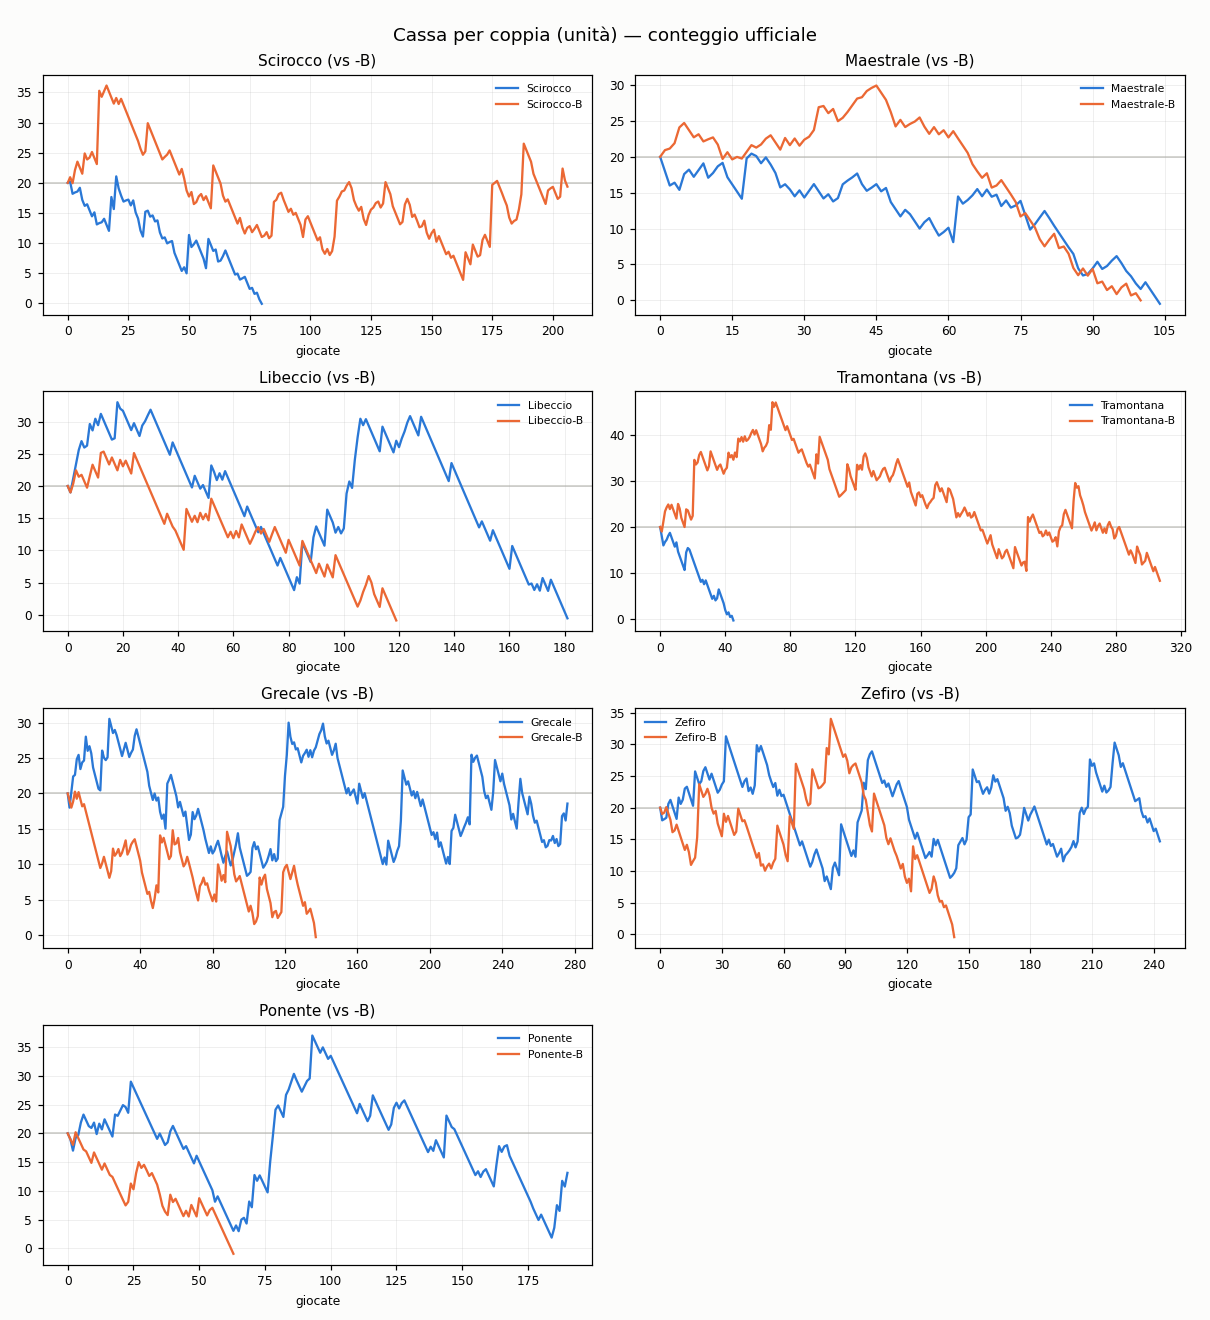
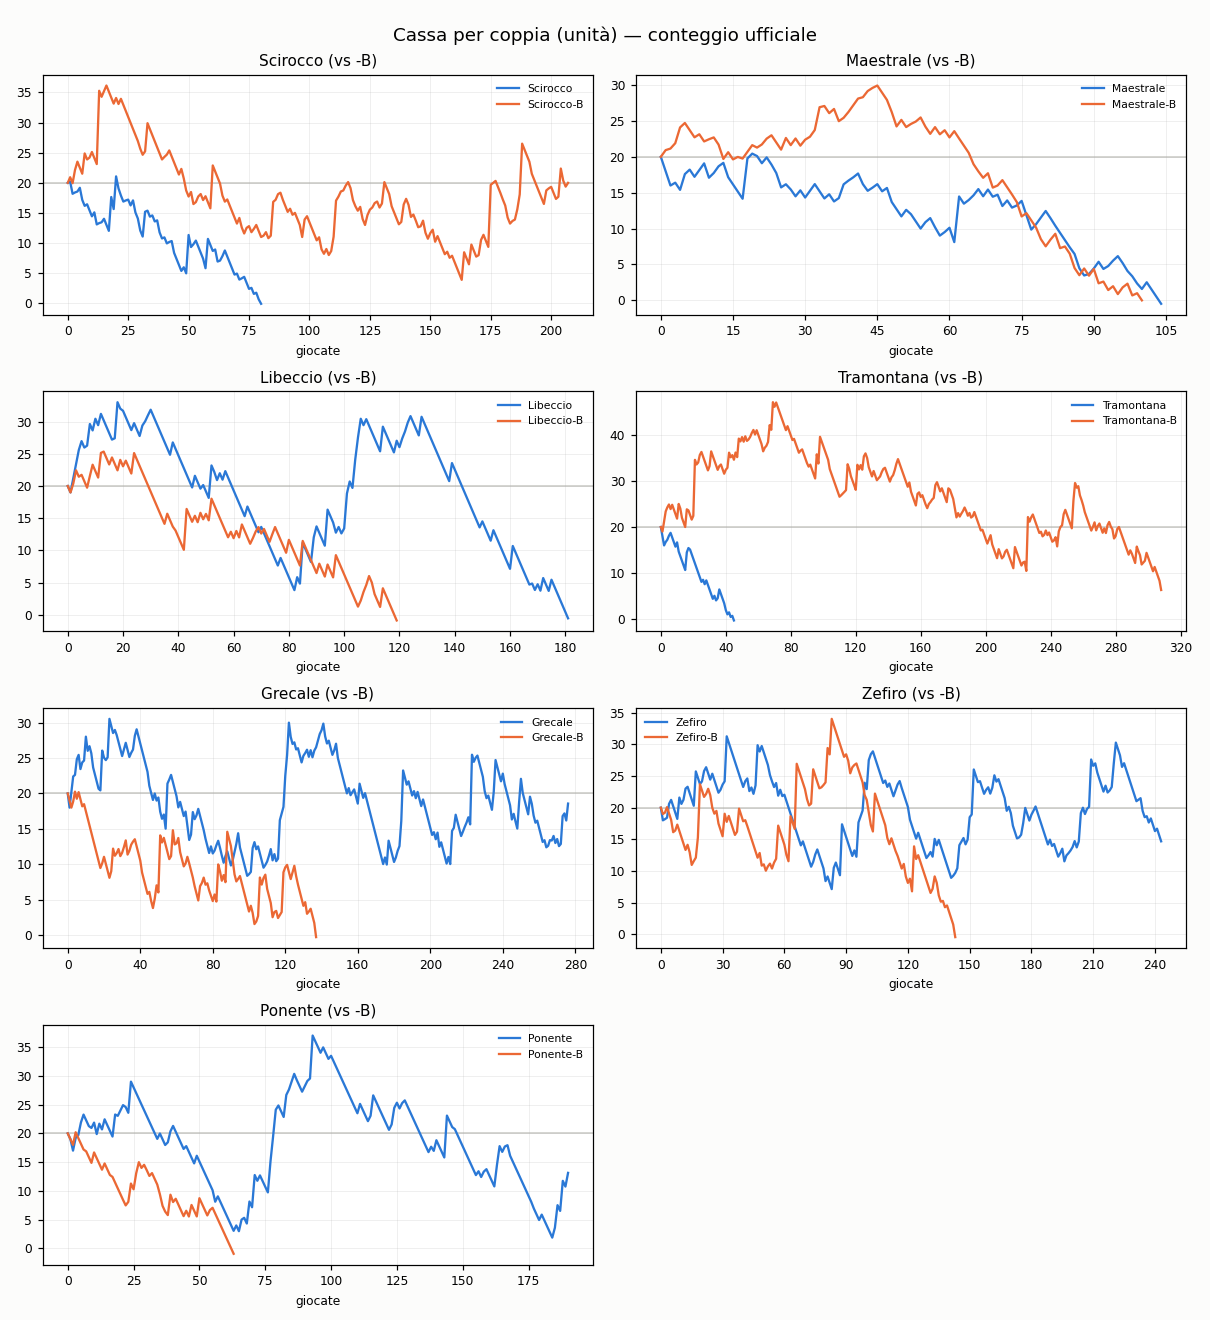
aggiornamento 2026-07-25 13:26 UTC

diff --git a/README.md b/README.md
@@ -37,9 +37,9 @@ scala in unità). Non indichiamo quale.
 
 ## Grafici
 
-![Coppie: dati completi vs ridotti](https://raw.githubusercontent.com/Kitem19/ippica-track-record/main/charts/equity_pairs.png?v=c039201a)
+![Coppie: dati completi vs ridotti](https://raw.githubusercontent.com/Kitem19/ippica-track-record/main/charts/equity_pairs.png?v=8fba55e0)
 
-![Delta per coppia](https://raw.githubusercontent.com/Kitem19/ippica-track-record/main/charts/coppie_delta.png?v=48b43798)
+![Delta per coppia](https://raw.githubusercontent.com/Kitem19/ippica-track-record/main/charts/coppie_delta.png?v=caf1e14f)
 
 ### Come leggere i grafici
 
@@ -56,10 +56,10 @@ scala in unità). Non indichiamo quale.
 
 _Poche giornate: numeri ancora rumorosi, si conclude a fine fase (31/7)._
 
-- **Scirocco**: dati ridotti avanti di 19,4u — qui gli extra non aiutano
+- **Scirocco**: dati ridotti avanti di 20,1u — qui gli extra non aiutano
 - **Maestrale**: in sostanziale pareggio — troppo presto per dire
 - **Libeccio**: in sostanziale pareggio — troppo presto per dire
-- **Tramontana**: dati ridotti avanti di 8,6u — qui gli extra non aiutano
+- **Tramontana**: dati ridotti avanti di 6,6u — qui gli extra non aiutano
 - **Grecale**: dati completi avanti di 18,8u
 - **Zefiro**: dati completi avanti di 15,1u
 - **Ponente**: dati completi avanti di 14,1u
@@ -68,22 +68,22 @@ _Poche giornate: numeri ancora rumorosi, si conclude a fine fase (31/7)._
 
 | Sistema | Cassa (u) | P/L (u) | Selezioni | Escluse | Stato |
 |---|---|---|---|---|---|
-| Scirocco-B | 19,4 | -0,6 | 206 | 0 | 🟢 |
+| Scirocco-B | 20,0 | -0,0 | 207 | 0 | 🟢 |
 | Grecale | 18,6 | -1,4 | 276 | 4 | 🟢 |
 | Zefiro | 14,7 | -5,3 | 243 | 5 | 🟢 |
 | Ponente | 13,1 | -6,9 | 190 | 28 | 🟢 |
-| Tramontana-B | 8,3 | -11,7 | 307 | 0 | 🟢 |
-| Maestrale-B | 0,0 | -20,0 | 100 | 206 | 🛑 |
-| Scirocco | 0,0 | -20,1 | 80 | 216 | 🛑 |
-| Grecale-B | 0,0 | -20,2 | 137 | 147 | 🛑 |
-| Tramontana | 0,0 | -20,3 | 45 | 280 | 🛑 |
-| Zefiro-B | 0,0 | -20,5 | 143 | 52 | 🛑 |
-| Maestrale | 0,0 | -20,5 | 104 | 227 | 🛑 |
-| Libeccio | 0,0 | -20,6 | 181 | 136 | 🛑 |
-| Libeccio-B | 0,0 | -20,9 | 119 | 152 | 🛑 |
-| Ponente-B | 0,0 | -21,0 | 63 | 74 | 🛑 |
+| Tramontana-B | 6,3 | -13,7 | 308 | 0 | 🟢 |
+| Maestrale-B | 0,0 | -20,0 | 100 | 207 | 🛑 |
+| Scirocco | 0,0 | -20,1 | 80 | 217 | 🛑 |
+| Grecale-B | 0,0 | -20,2 | 137 | 148 | 🛑 |
+| Tramontana | 0,0 | -20,3 | 45 | 281 | 🛑 |
+| Zefiro-B | 0,0 | -20,5 | 143 | 53 | 🛑 |
+| Maestrale | 0,0 | -20,5 | 104 | 228 | 🛑 |
+| Libeccio | 0,0 | -20,6 | 181 | 137 | 🛑 |
+| Libeccio-B | 0,0 | -20,9 | 119 | 153 | 🛑 |
+| Ponente-B | 0,0 | -21,0 | 63 | 75 | 🛑 |
 
-_Aggiornato: 25/07 15:21_
+_Aggiornato: 25/07 15:26_
 ---
 *Nessuna delle informazioni qui pubblicate costituisce consiglio di gioco.
 Il gioco può causare dipendenza — 18+.*
